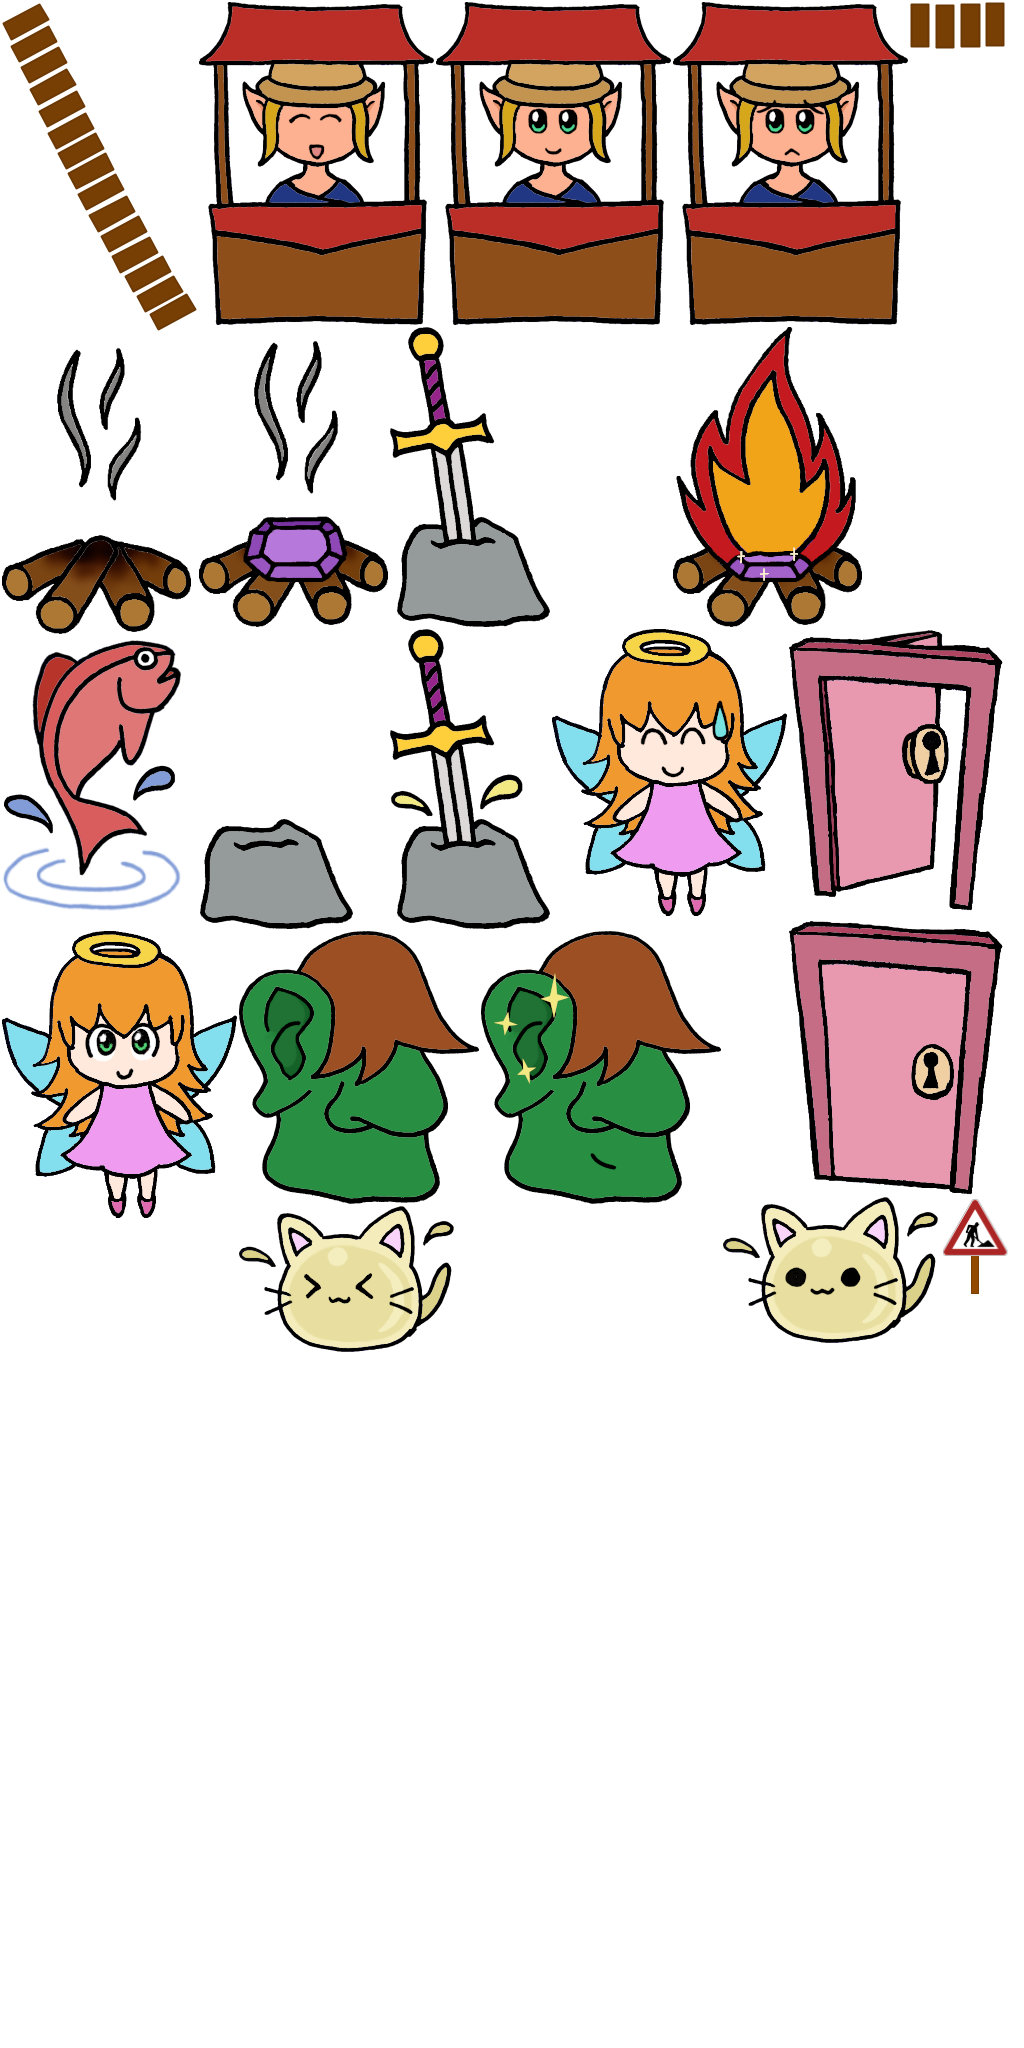
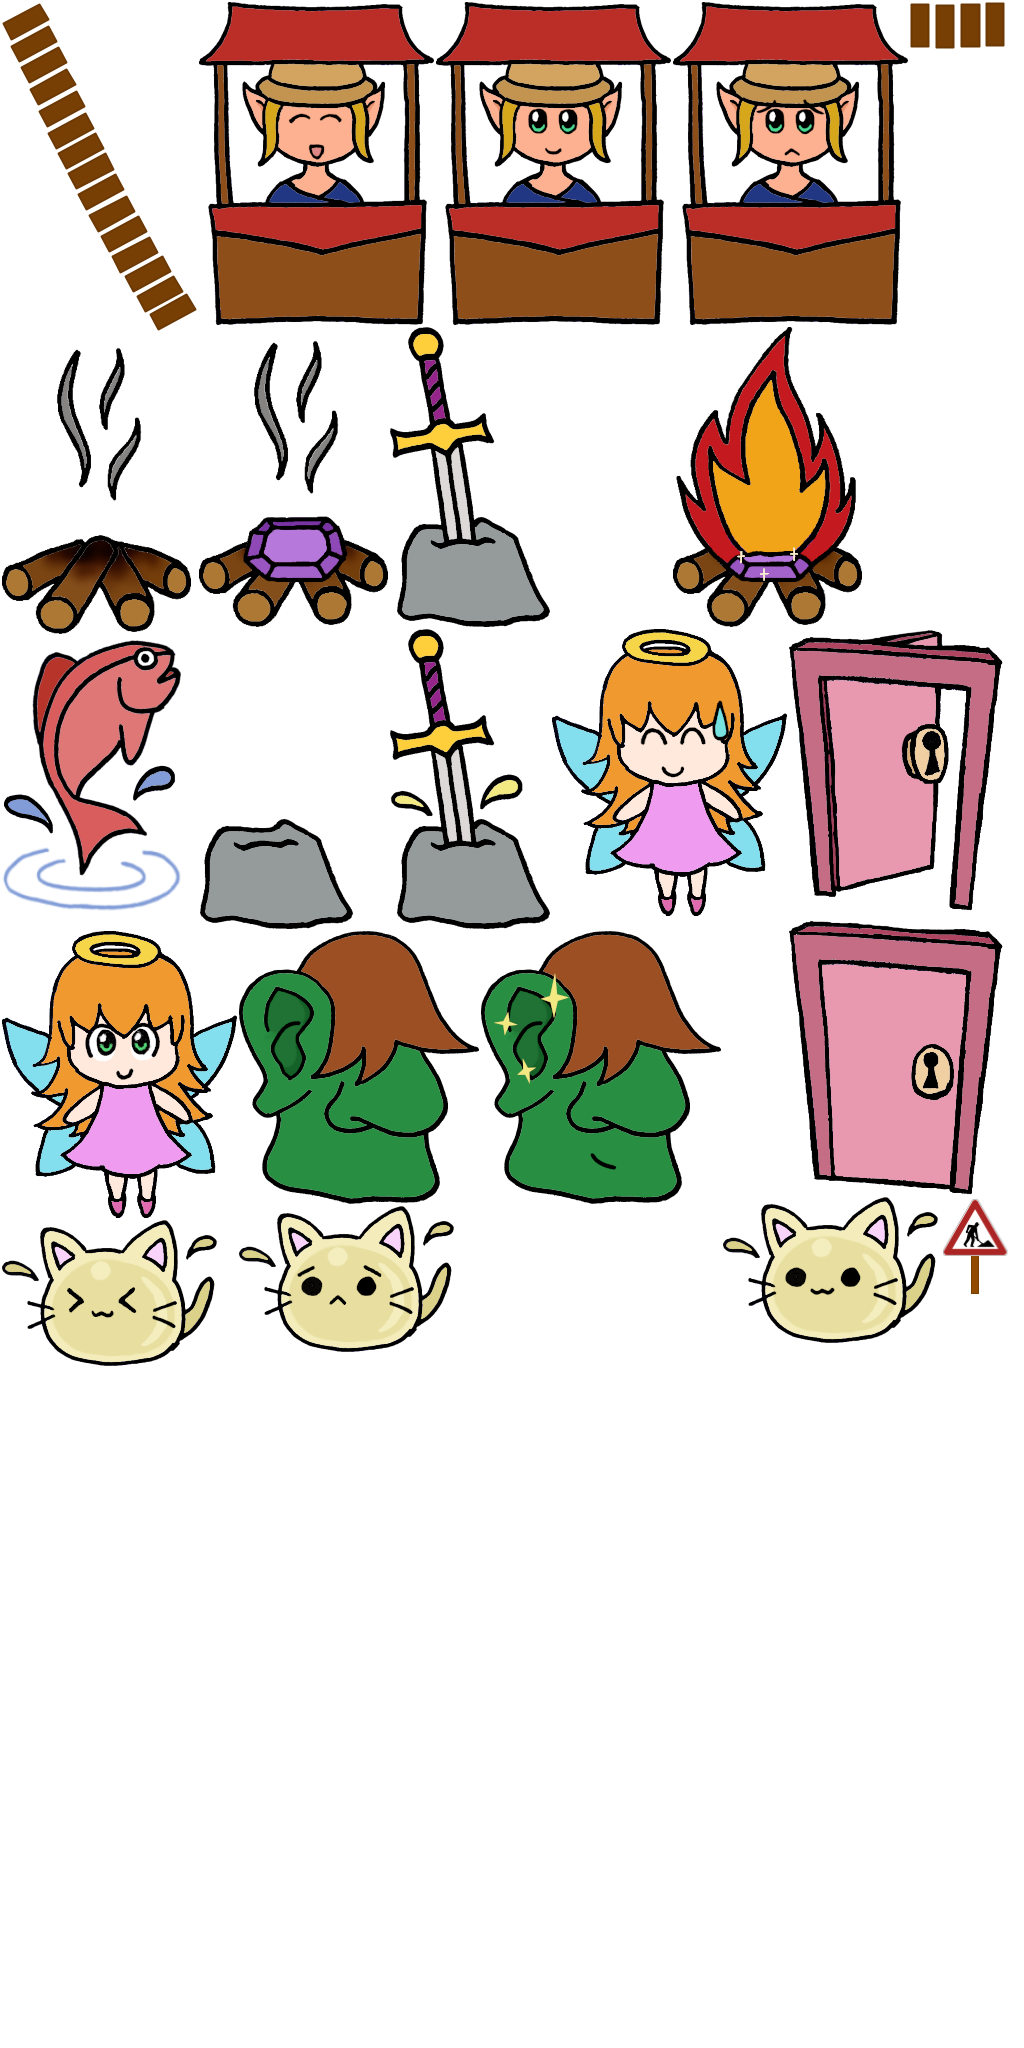
Cat + grilled fish

Changed region(s): [[0.0, 0.5938, 0.2188, 0.6875], [0.3438, 0.625, 0.375, 0.6562]]

diff --git a/data.js b/data.js
@@ -12,6 +12,7 @@ const [MAP_DATA, NPC_DATA] = function () {
     money: 'เงิน 30 บาท',
     rod: 'เบ็ดตกปลา',
     fish: 'ปลา',
+    grilledfish: 'ปลาย่าง',
     key: 'กุญแจ',
     entkit: 'ชุดตรวจหู',
     sword: 'ดาบกากๆ',
@@ -202,25 +203,38 @@ const [MAP_DATA, NPC_DATA] = function () {
           return R(0, true, true, [
             'เมี้ยว!']);
         case 'action':
-          return R(0, true, true, [
+          return R(1, true, true, [
             'ฉันไม่มีเงินเลยเมี้ยว!',
             'แต่ถ้าเธอให้<b>อาหาร</b>ฉัน ฉันมีของให้เธอนะเมี้ยว!']);
         case 'fish':
-          utils.removeItem('fish');
+          if (flags.catFed) {
+            return R(1, true, true, [
+              'เบื่อปลา<b>ดิบ</b>แล้วหงะเมี้ยว!',
+              'มีอย่างอื่นมั้ยเมี้ยว?']);
+          } else {
+            utils.removeItem('fish');
+            utils.addItem('key');
+            flags.catFed = true;
+            return R(2, true, true, [
+              'เมี้ยวๆๆ อร่อยจัง!',
+              'ฉันจะให้ของเธอเป็นการตอบแทนนะเมี้ยว!']);
+          }
+        case 'grilledfish':
+          utils.removeItem('grilledfish');
           utils.addItem('key');
-          return R(1, true, true, [
+          return R(2, true, true, [
             'เมี้ยวๆๆ อร่อยจัง!',
             'ฉันจะให้ของเธอเป็นการตอบแทนนะเมี้ยว!']);
         case 'key':
-          return R(1, true, true, [
+          return R(0, true, true, [
             'เธอเก็บมันไว้เถอะ ไม่ต้องเกรงใจเมี้ยว!']);
         case 'oil':
         case 'ice':
-          return R(1, true, true, [
+          return R(0, true, true, [
             'สวัสดี ' + itemNames[op],
             'ยินดีที่ได้รู้จักเมี้ยว!']);
         default:
-          return R(0, true, true, [
+          return R(1, true, true, [
             'อะไรหนะ? ฉันกินไม่เป็นเมี้ยว!']);
       }
     },
@@ -423,6 +437,19 @@ const [MAP_DATA, NPC_DATA] = function () {
           return R(1, true, false, [
             'คุณใช้ ICE (น้ำแข็ง) ดับไฟ',
             'ในกองขี้เถ้ามี<b>อัญมณี</b>สะท้อนแสงวับวาว']);
+        case 'fish':
+          utils.removeItem('fish');
+          utils.addItem('grilledfish');
+          return R(0, true, true, [
+            'คุณย่างปลา',
+            'กลิ่นหอมน่ากินมาก']);
+        case 'grilledfish':
+          return R(0, true, true, [
+            'ย่างพอแล้ว',
+            'เดี๋ยวก็ไหม้หรอก']);
+        case 'rod':
+          return R(0, true, true, [
+            'คุณพยายามตกของในกองไฟ แต่มันตกไม่ขึ้น']);
         default:
           return R(0, true, true, [
             'อย่าโยนของลงกองไฟสิ!']);
@@ -612,6 +639,7 @@ const [MAP_DATA, NPC_DATA] = function () {
             'ไม่เป็นไรๆ',
             'ข้าจะเสริมพลังอาวุธให้เจ้า<b>ฟรี</b>ครั้งนึง']);
         case 'fish':
+        case 'grilledfish':
         case 'key':
         case 'rod':
           return R(bpic(), true, true, [
@@ -710,11 +738,11 @@ const [MAP_DATA, NPC_DATA] = function () {
               'ก้อนศิลา',
               'มี<b>ดาบ</b>เสียบแน่นอยู่']);
           } else if (!flags.swordPulled) {
-            return R(2, true, false, [
+            return R(1, true, false, [
               'ก้อนศิลา',
               'น้ำมันหล่อลื่นทำให้<b>ดาบ</b>ดึงออกได้ง่าย']);
           } else {
-            return R(1, false, false, [
+            return R(2, false, false, [
               'ก้อนศิลา',
               'ไม่มีอะไรเสียบอยู่ เหมือนที่ศิลาปกติควรจะเป็น']);
           }
@@ -727,13 +755,13 @@ const [MAP_DATA, NPC_DATA] = function () {
             utils.addItem('sword');
             flags.swordPulled = true;
             utils.refreshNpcOnMap('stone');
-            return R(1, false, false, [
+            return R(2, false, false, [
               'คุณดึงดาบออกมา',
               'แต่พอมองดูดีๆ แล้ว มันเป็นแค่<b>ดาบกากๆ</b>']);
           }
         case 'oil':
           flags.stoneOiled = true;
-          return R(2, true, false, [
+          return R(1, true, false, [
             'คุณใช้ OIL (น้ำมัน) หล่อลื่น',
             'ดาบน่าจะดึงออกได้ง่ายแล้ว']);
         default:
@@ -797,6 +825,7 @@ const [MAP_DATA, NPC_DATA] = function () {
             'ไม่เป็นไร',
             'ไอซ์ไม่งกเหมือนออย']);
         case 'fish':
+        case 'grilledfish':
           return R(null, true, true, [
             'ไม่เป็นไร',
             'ไอซ์ไม่หิว']);
@@ -856,6 +885,7 @@ const [MAP_DATA, NPC_DATA] = function () {
             'จะติดสินบนข้า แต่มีแค่ 30 บาท ข้าไม่รับหรอก <b>555+</b>']);
         case 'rod':
         case 'fish':
+        case 'grilledfish':
         case 'key':
           return R(null, true, true, [
             'จะเอา' + itemNames[op] + 'มาตีข้างั้นเหรอ บ้าหรือเปล่า <b>555+</b>']);

diff --git a/main.js b/main.js
@@ -299,6 +299,7 @@ $(function () {
       "tutorialDone2": true,
       "tutorialDone1": true,
       "pondFished": true,
+      "catFed": true,
     },
     items: ['rod', 'key', '', '', 'oil', ''],
     pid: 'a4',
@@ -309,6 +310,7 @@ $(function () {
       "tutorialDone2": true,
       "tutorialDone1": true,
       "pondFished": true,
+      "catFed": true,
       "doorOpen": true,
       "feePaid": true,
       "nurseHelped": true,
@@ -324,6 +326,7 @@ $(function () {
       "tutorialDone2": true,
       "tutorialDone1": true,
       "pondFished": true,
+      "catFed": true,
       "doorOpen": true,
       "feePaid": true,
       "nurseHelped": true,
@@ -344,6 +347,7 @@ $(function () {
       "tutorialDone2": true,
       "tutorialDone1": true,
       "pondFished": true,
+      "catFed": true,
       "doorOpen": true,
       "feePaid": true,
       "nurseHelped": true,

diff --git a/img/sheet.css b/img/sheet.css
@@ -18,6 +18,10 @@
   background-position: -239px -1206px;
   width: 215px; height: 146px;
 }
+.npc-cat-2 {
+  background-position: -2px -1220px;
+  width: 215px; height: 146px;
+}
 .npc-door-0 {
   background-position: -789px -913px;
   width: 214px; height: 282px;

diff --git a/style.css b/style.css
@@ -384,6 +384,9 @@ div.scene {
 .item[data-iid="fish"]::before {
   content: 'fish';
 }
+.item[data-iid="grilledfish"]::before {
+  content: 'grilledfish';
+}
 .item[data-iid="key"]::before {
   content: 'key';
 }
